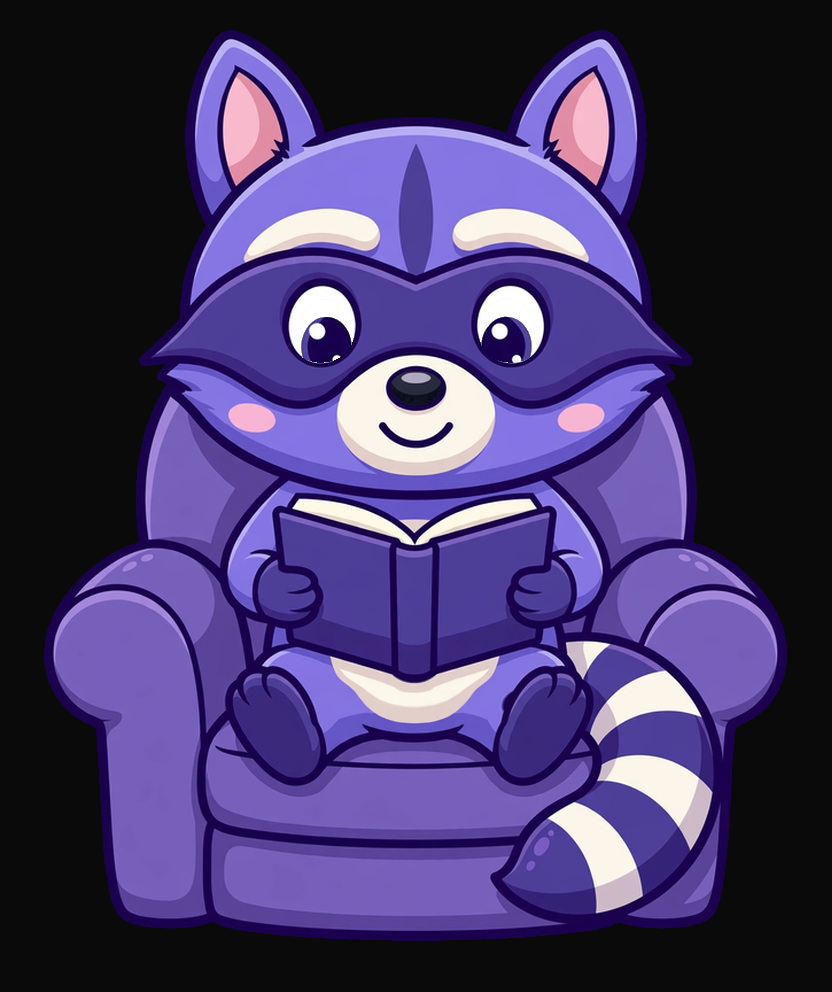
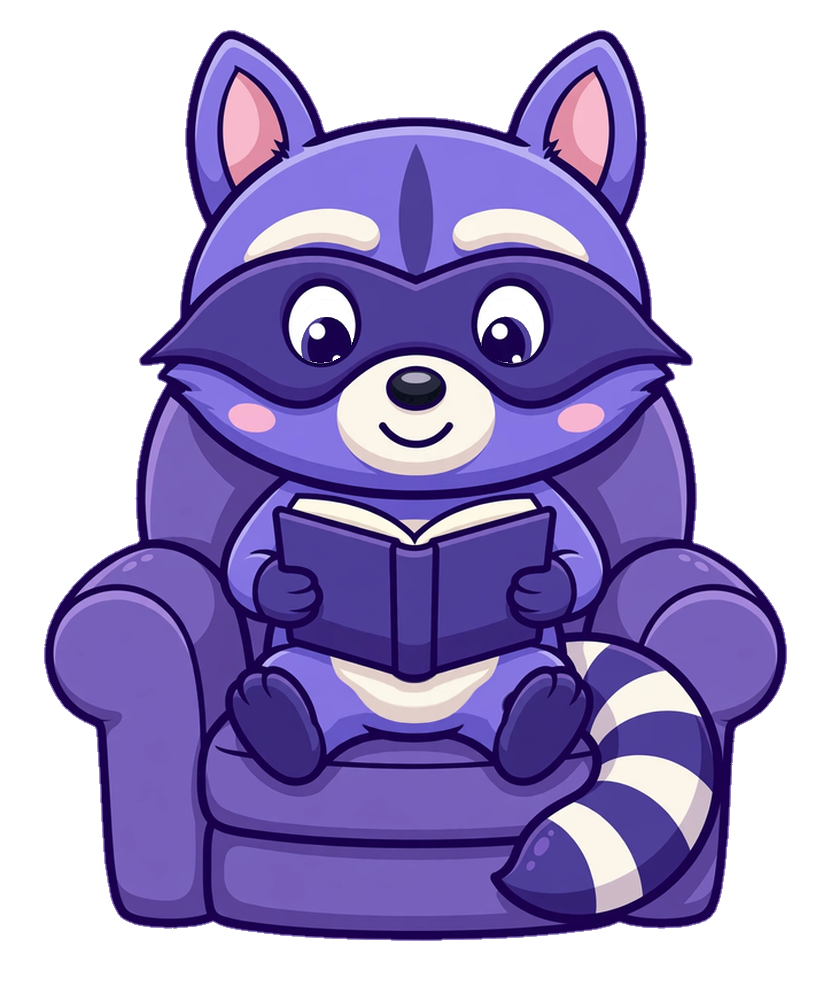
Bandit reading poster: transparent background (alpha cutout of shipped art)
The Home reading poster shipped as an opaque RGB PNG with the
near-black (10,10,11) studio background baked in, so any non-default
app background (dev-screen background changer, VC 100146) showed
Bandit inside a black rectangle (founder report Nov 20, 2026).

Background removal only, art untouched: border-connected near-BG
matte using the v8 pipeline's own subject definition, soft ramp in
the boundary band, per-pixel BG un-blending for edge
decontamination. Subject bbox (44..786, 30..940) matches the v8
pipeline's asserted base bbox exactly. Same filename/path — no code
changes. All other Bandit stills and the Android widget drawables
were audited and already carry real transparency.

Guard test decodes the shipped asset and asserts transparent
corners, >25% transparent share, >40% opaque share.

The reading LOOP video (bandit_reading_loop_v8.mp4) still has the
baked background — H.264 has no alpha; per the Bandit preview-first
rule it is NOT rebuilt here. A keyed preview composite is delivered
with the package for the founder's call.

diff --git a/flutter/test/bandit_poster_alpha_test.dart b/flutter/test/bandit_poster_alpha_test.dart
@@ -1,0 +1,53 @@
+import 'dart:ui' as ui;
+
+import 'package:flutter/services.dart';
+import 'package:flutter_test/flutter_test.dart';
+import 'package:tabs_lab/src/features/home/bandit_reading_slot.dart';
+
+/// Guard for the founder report of Nov 20, 2026: the Home reading
+/// poster shipped as an opaque RGB PNG with the near-black studio
+/// background baked in, so any non-default app background (dev-screen
+/// background changer) showed Bandit inside a black rectangle. The
+/// poster must keep a real alpha channel: fully transparent corners
+/// and a substantial transparent share, with the subject itself
+/// opaque. If a future asset swap re-bakes a background, this fails.
+void main() {
+  TestWidgetsFlutterBinding.ensureInitialized();
+
+  test('reading poster has transparent corners and real alpha variance',
+      () async {
+    final data = await rootBundle.load(BanditReadingSlot.posterAsset);
+    final codec = await ui.instantiateImageCodec(
+        data.buffer.asUint8List());
+    final frame = await codec.getNextFrame();
+    final image = frame.image;
+    expect(image.width, 832);
+    expect(image.height, 992);
+    final bytes = await image.toByteData(format: ui.ImageByteFormat.rawRgba);
+    expect(bytes, isNotNull);
+    final px = bytes!.buffer.asUint8List();
+
+    int alphaAt(int x, int y) => px[(y * image.width + x) * 4 + 3];
+
+    // All four corners fully transparent — no baked box.
+    expect(alphaAt(0, 0), 0);
+    expect(alphaAt(image.width - 1, 0), 0);
+    expect(alphaAt(0, image.height - 1), 0);
+    expect(alphaAt(image.width - 1, image.height - 1), 0);
+
+    // Non-trivial alpha variance: a real cutout, not a solid frame.
+    var transparent = 0;
+    var opaque = 0;
+    for (var i = 3; i < px.length; i += 4) {
+      if (px[i] == 0) transparent++;
+      if (px[i] == 255) opaque++;
+    }
+    final total = image.width * image.height;
+    expect(transparent / total, greaterThan(0.25),
+        reason: 'poster background must be transparent, not baked');
+    expect(opaque / total, greaterThan(0.4),
+        reason: 'the subject itself must stay fully opaque');
+    // Subject centre (book/chair area) is opaque art.
+    expect(alphaAt(416, 700), 255);
+  });
+}
